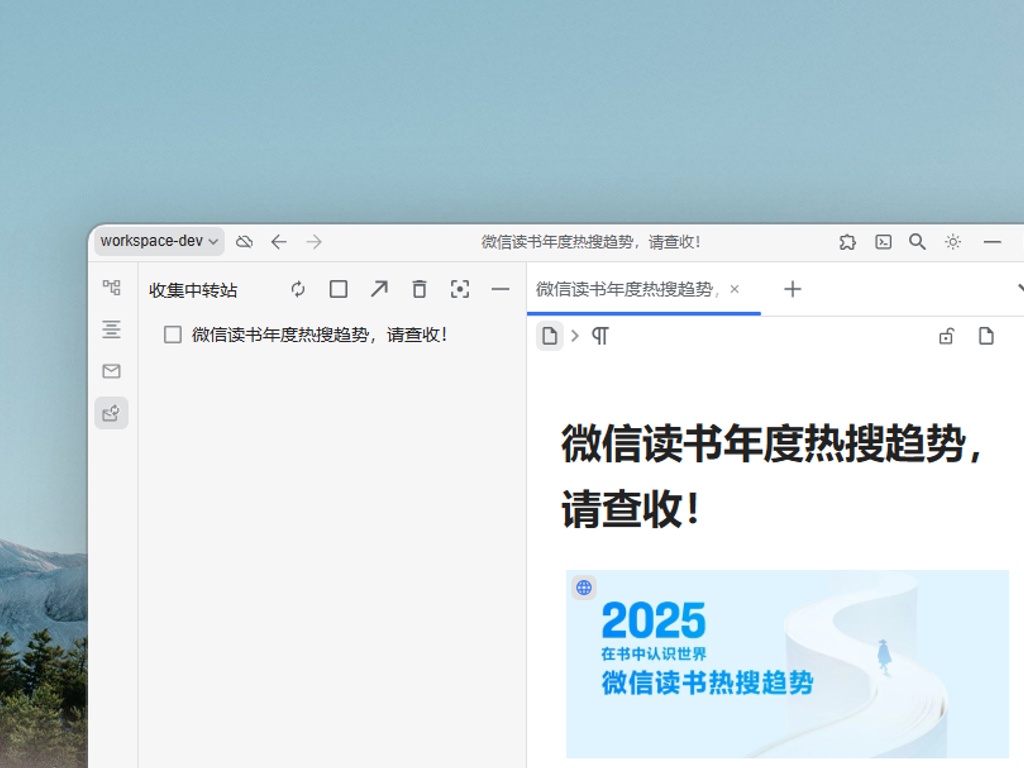
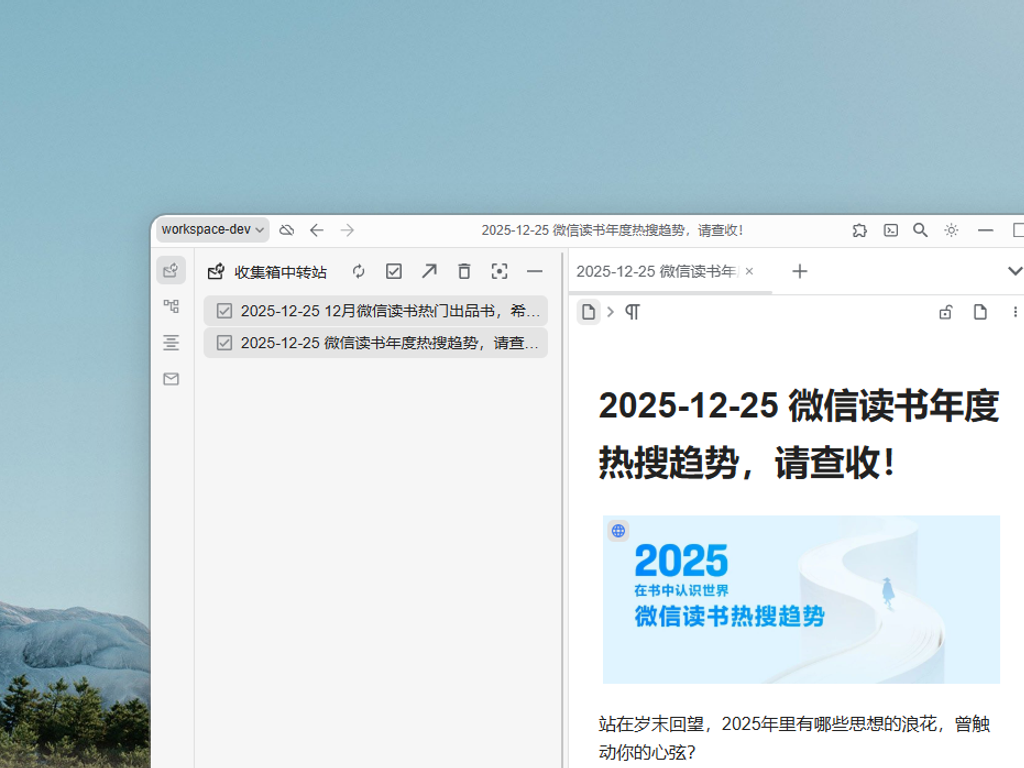
docComponent matched other dock tabs

Changed region(s): [[0.0, 0.25, 1.0, 1.0], [0.9062, 0.375, 0.9688, 0.4688], [0.9688, 0.3438, 1.0, 0.375]]

diff --git a/src/worker/dockComponent.svelte b/src/worker/dockComponent.svelte
@@ -156,107 +156,108 @@
     });
 </script>
 
-<!-- 容器元素：复用内置收集箱，加入.{plugin.name}__dock-tab类作为标识 -->
-<div class="fn__flex-column file-tree sy__inbox {plugin.name}__dock-tab" style="height: 100%; overflow: hidden;">
-    <!-- dock顶栏 -->
-    <div class="block__icons" style="flex-shrink: 0; overflow-x: auto; white-space: nowrap;">
-        <!-- 标题 -->
-        <div class="block__logo">{i18nDock["title"]}</div>
-        <span class="fn__flex-1"></span>
-        <!-- 中转站有效时才显示功能按钮 -->
-        {#if targetIsValid}
-        <!-- 刷新 -->
-        <span class="fn__space"></span>
-        <button
-            class="block__icon b3-tooltips b3-tooltips__w"
-            class:refreshing={isRefreshing}
-            disabled={isRefreshing}
-            style="{isRefreshing ? 'opacity: 0.5; cursor: default; pointer-events: none;' : ''}"
-            aria-label="{window.siyuan.languages.refresh}"
-            onclick={refreshHandler}>
-            <svg><use xlink:href="#iconRefresh"></use></svg>
-        </button>
-        <!-- 全选 -->
-        <span class="fn__space"></span>
-        <button
-            class="block__icon b3-tooltips b3-tooltips__w"
-            aria-label="{isAllSelected ? i18nDock["unSelectAll"] : i18nDock["selectAll"]}"
-            onclick={toggleSelectAll}>
-            <svg><use xlink:href="#icon{isAllSelected ? 'Check' : 'Uncheck'}"></use></svg>
-        </button>
-        <!-- 打开 -->
-        <span class="fn__space"></span>
-        <button
-            class="block__icon b3-tooltips b3-tooltips__w"
-            aria-label="{window.siyuan.languages.openBy}"
-            onclick={openHandler}>
-            <svg><use xlink:href="#iconOpen"></use></svg>
-        </button>
-        <!-- 删除 -->
-        <span class="fn__space"></span>
-        <button
-            class="block__icon b3-tooltips b3-tooltips__w"
-            aria-label="{window.siyuan.languages.delete}"
-            onclick={deleteHandler}>
-            <svg><use xlink:href="#iconTrashcan"></use></svg>
-        </button>
-        <!-- 定位 -->
-        <span class="fn__space"></span>
-        <button
-            class="block__icon b3-tooltips b3-tooltips__w"
-            aria-label="{i18nDock["locate"]}"
-            onclick={locateHandler}>
-            <svg><use xlink:href="#iconFocus"></use></svg>
-        </button>
+<!-- 容器元素 -->
+<!-- dock顶栏 -->
+<div class="block__icons" style="flex-shrink: 0; overflow-x: auto; white-space: nowrap;">
+    <!-- 标题 -->
+    <div class="block__logo">
+        <svg class="block__logoicon"><use xlink:href="#iconInboxTransfer"></use></svg>
+        {i18nDock["title"]}
+    </div>
+    <span class="fn__flex-1"></span>
+    <!-- 中转站有效时才显示功能按钮 -->
+    {#if targetIsValid}
+    <!-- 刷新 -->
+    <span class="fn__space"></span>
+    <button
+        class="block__icon b3-tooltips b3-tooltips__w"
+        class:refreshing={isRefreshing}
+        disabled={isRefreshing}
+        style="{isRefreshing ? 'opacity: 0.5; cursor: default; pointer-events: none;' : ''}"
+        aria-label="{window.siyuan.languages.refresh}"
+        onclick={refreshHandler}>
+        <svg><use xlink:href="#iconRefresh"></use></svg>
+    </button>
+    <!-- 全选 -->
+    <span class="fn__space"></span>
+    <button
+        class="block__icon b3-tooltips b3-tooltips__w"
+        aria-label="{isAllSelected ? i18nDock["unSelectAll"] : i18nDock["selectAll"]}"
+        onclick={toggleSelectAll}>
+        <svg><use xlink:href="#icon{isAllSelected ? 'Check' : 'Uncheck'}"></use></svg>
+    </button>
+    <!-- 打开 -->
+    <span class="fn__space"></span>
+    <button
+        class="block__icon b3-tooltips b3-tooltips__w"
+        aria-label="{window.siyuan.languages.openBy}"
+        onclick={openHandler}>
+        <svg><use xlink:href="#iconOpen"></use></svg>
+    </button>
+    <!-- 删除 -->
+    <span class="fn__space"></span>
+    <button
+        class="block__icon b3-tooltips b3-tooltips__w"
+        aria-label="{window.siyuan.languages.delete}"
+        onclick={deleteHandler}>
+        <svg><use xlink:href="#iconTrashcan"></use></svg>
+    </button>
+    <!-- 定位 -->
+    <span class="fn__space"></span>
+    <button
+        class="block__icon b3-tooltips b3-tooltips__w"
+        aria-label="{i18nDock["locate"]}"
+        onclick={locateHandler}>
+        <svg><use xlink:href="#iconFocus"></use></svg>
+    </button>
+    {/if}
+    <!-- 最小化 -->
+    <span class="fn__space"></span>
+    <span
+        data-type="min"
+        class="block__icon b3-tooltips b3-tooltips__w"
+        aria-label="{window.siyuan.languages.min} {adaptHotkey(window.siyuan.config.keymap.general.closeTab.custom)}">
+        <svg><use xlink:href="#iconMin"></use></svg>
+    </span>
+</div>
+<!-- 中转文档列表 -->
+<div class="fn__flex-column" style="flex: 1; overflow-y: auto;">
+    <ul class="b3-list b3-list--background">
+        <!-- 中转站无效 -->
+        {#if !targetIsValid}
+        <li class="b3-list--empty" style="opacity: 0.5;">{i18nDock["targetInvalid"]}</li>
+        <!-- 中转文档列表为空 -->
+        {:else if docs.length === 0}
+            <li class="b3-list--empty" style="opacity: 0.5;">{i18nDock["inboxEmpty"]}</li>
+        {:else}
+        {#each docs as doc (doc.id)}
+                <!-- 中转文档列表项 -->
+                <!-- svelte-ignore a11y_click_events_have_key_events -->
+                <!-- svelte-ignore a11y_no_static_element_interactions -->
+                <!-- svelte-ignore a11y_no_noninteractive_element_interactions -->
+                <li
+                    class="b3-list-item"
+                    data-id="{doc.id}"
+                    class:b3-list-item--focus={selectedIds.has(doc.id)}
+                    onclick={itemHandler}>
+                    <span
+                        class="b3-list-item__action"
+                        role="checkbox"
+                        tabindex="0"
+                        aria-checked={selectedIds.has(doc.id)}
+                        aria-label="{window.siyuan.languages.select}">
+                        <svg><use xlink:href="#icon{selectedIds.has(doc.id) ? 'Check' : 'Uncheck'}"></use></svg>
+                    </span>
+                    <span class="fn__space--small"></span>
+                    <span
+                        class="b3-list-item__text"
+                        title="{doc.name}">
+                        {doc.name}
+                    </span>
+                </li>
+            {/each}
         {/if}
-        <!-- 最小化 -->
-        <span class="fn__space"></span>
-        <span
-            data-type="min"
-            class="block__icon b3-tooltips b3-tooltips__w"
-            aria-label="{window.siyuan.languages.min} {adaptHotkey(window.siyuan.config.keymap.general.closeTab.custom)}">
-            <svg><use xlink:href="#iconMin"></use></svg>
-        </span>
-    </div>
-    <!-- 中转文档列表 -->
-    <div class="fn__flex-column" style="flex: 1; overflow-y: auto;">
-        <ul class="b3-list b3-list--background">
-            <!-- 中转站无效 -->
-            {#if !targetIsValid}
-            <li class="b3-list--empty" style="opacity: 0.5;">{i18nDock["targetInvalid"]}</li>
-            <!-- 中转文档列表为空 -->
-            {:else if docs.length === 0}
-                <li class="b3-list--empty" style="opacity: 0.5;">{i18nDock["inboxEmpty"]}</li>
-            {:else}
-            {#each docs as doc (doc.id)}
-                    <!-- 中转文档列表项 -->
-                    <!-- svelte-ignore a11y_click_events_have_key_events -->
-                    <!-- svelte-ignore a11y_no_static_element_interactions -->
-                    <!-- svelte-ignore a11y_no_noninteractive_element_interactions -->
-                    <li
-                        class="b3-list-item"
-                        data-id="{doc.id}"
-                        class:b3-list-item--focus={selectedIds.has(doc.id)}
-                        onclick={itemHandler}>
-                        <span
-                            class="b3-list-item__action"
-                            role="checkbox"
-                            tabindex="0"
-                            aria-checked={selectedIds.has(doc.id)}
-                            aria-label="{window.siyuan.languages.select}">
-                            <svg><use xlink:href="#icon{selectedIds.has(doc.id) ? 'Check' : 'Uncheck'}"></use></svg>
-                        </span>
-                        <span class="fn__space--small"></span>
-                        <span
-                            class="b3-list-item__text"
-                            title="{doc.name}">
-                            {doc.name}
-                        </span>
-                    </li>
-                {/each}
-            {/if}
-        </ul>
-    </div>
+    </ul>
 </div>
 
 <style>

diff --git a/src/utils/replaceBuiltIn.ts b/src/utils/replaceBuiltIn.ts
@@ -33,7 +33,7 @@ export class ReplaceBuiltIn {
             langText: "Inbox Transfer",
             hotkey: this.keyOriginal,
             callback: () => {
-                const elem = document.querySelector(`span[data-type="${this.plugin.name}__dock-icon"]`) as HTMLElement;
+                const elem = document.querySelector(`span[data-type="${this.plugin.name}__dock-tab"]`) as HTMLElement;
                 elem?.click();
             }
         });
@@ -44,7 +44,7 @@ export class ReplaceBuiltIn {
      */
     replaceOnLayoutReady() {
         // 点击最小化内置收集箱图标
-        const elem = document.querySelector(`div.file-tree.sy__inbox:not(.${this.plugin.name}__dock-tab) span[data-type="min"]`) as HTMLElement;
+        const elem = document.querySelector(`div.file-tree.sy__inbox:not(.sy__${this.plugin.name}__dock-tab) span[data-type="min"]`) as HTMLElement;
         logger.logDebug("点击最小化内置收集箱图标", elem);
         elem?.click();
         // 隐藏内置收集箱图标

diff --git a/src/worker/dockService.ts b/src/worker/dockService.ts
@@ -26,10 +26,12 @@ export class DockService {
             data: {
                 plugin: this.plugin,
             },
-            type: "__dock-icon",
+            type: "__dock-tab",
             resize() {},
             update() {},
             init() {
+                // 创建容器类，会自动加上.sy__${this.plugin.name}__dock-tab
+                this.element.classList.add("fn__flex-column", "file-tree");
                 // 清空容器
                 this.element.innerHTML = '';
                 // 加载svelte组件

diff --git a/CHANGELOG.md b/CHANGELOG.md
@@ -50,3 +50,8 @@ meta：
 
 功能：
 - 加入替换内置收集箱功能
+
+### 0.3.4 (2025-12-25)
+
+UI：
+- 让UI与其它dock栏一致
